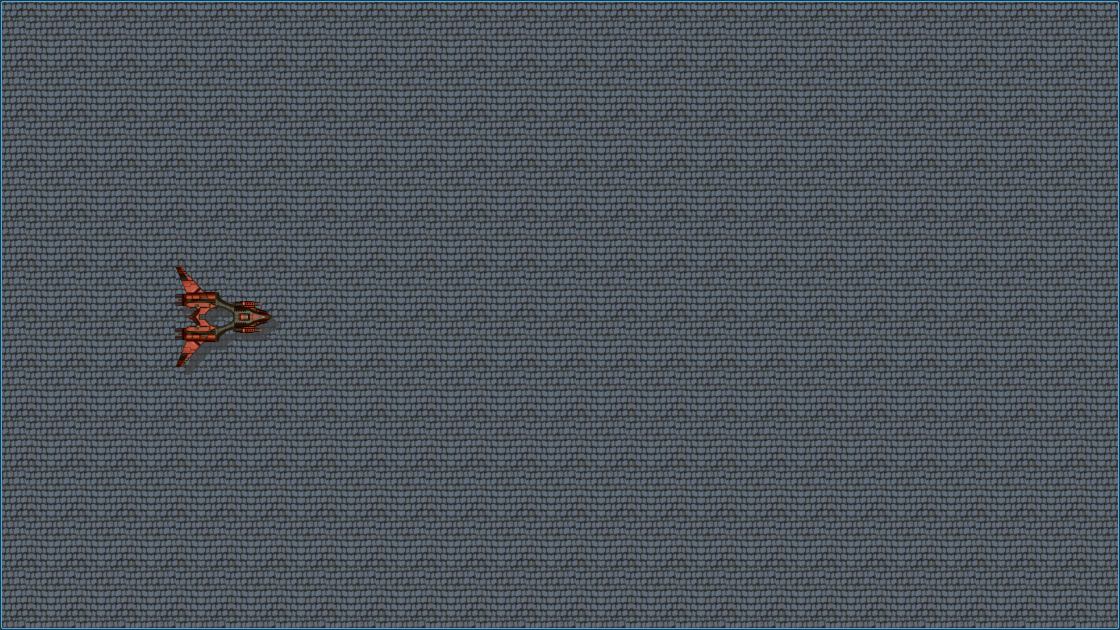
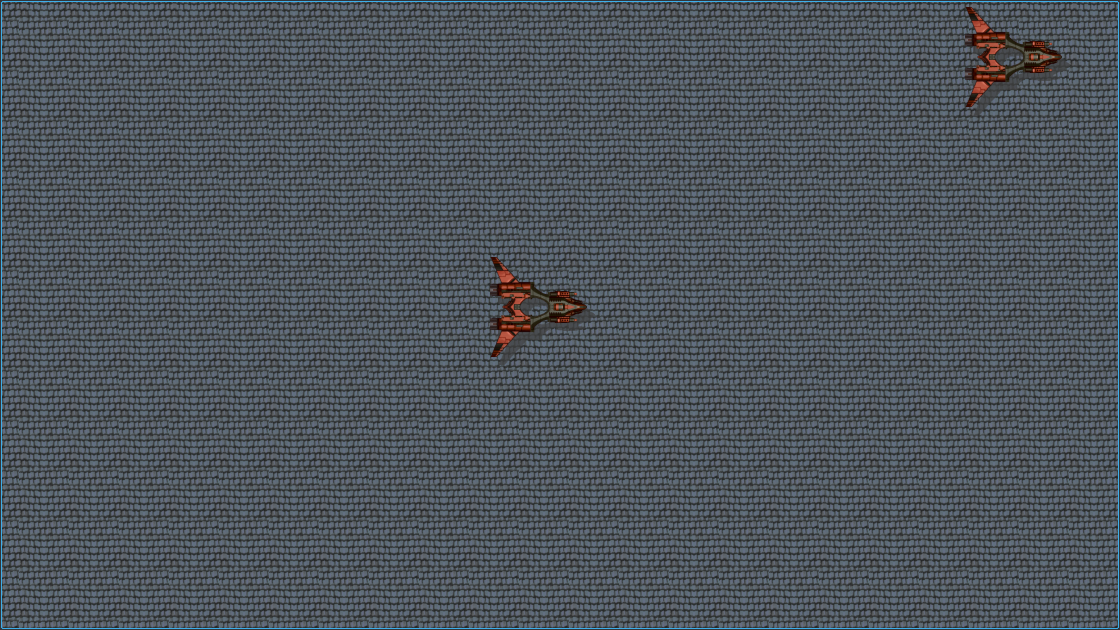
Project Update

diff --git a/Sources/Source Files/Game Objects/MyShip.cpp b/Sources/Source Files/Game Objects/MyShip.cpp
@@ -4,11 +4,12 @@
 
 #include <Sources/Headers/Game Objects/MyShip.h>
 
-MyShip::MyShip(const QPixmap &pixmap) :
+MyShip::MyShip(const QPixmap &pixmap, QString *name) :
 		QGraphicsPixmapItem(pixmap.scaled(MyRes::shp_size, Qt::KeepAspectRatio,
 		                                  Qt::SmoothTransformation)), QObject() {
 	setGraphicsEffect(new QGraphicsDropShadowEffect());
 	setPos(MyRes::x_offset, MyRes::y_offset);
+	MyShip::name = name;
 
 	vlc = new QPointF(0, 0);
 
@@ -106,15 +107,45 @@ void MyShip::updt_vlc(QSet<int> *prsd_kys) {
 	vlc->setY(0);
 	vlc->setX(0);
 
-	if (prsd_kys->find(Qt::Key_Up) != prsd_kys->end())
+	if (prsd_kys->find(Qt::Key_Up) != prsd_kys->end() && name->compare("1") == 0)
 		vlc->setY(vlc->y() - MyRes::shp_mvmnt);
-	if (prsd_kys->find(Qt::Key_Down) != prsd_kys->end())
+	if (prsd_kys->find(Qt::Key_Down) != prsd_kys->end() && name->compare("1") == 0)
 		vlc->setY(vlc->y() + MyRes::shp_mvmnt);
-	if (prsd_kys->find(Qt::Key_Left) != prsd_kys->end())
+	if (prsd_kys->find(Qt::Key_Left) != prsd_kys->end() && name->compare("1") == 0)
 		vlc->setX(vlc->x() - MyRes::shp_mvmnt);
-	if (prsd_kys->find(Qt::Key_Right) != prsd_kys->end())
+	if (prsd_kys->find(Qt::Key_Right) != prsd_kys->end() && name->compare("1") == 0)
 		vlc->setX(vlc->x() + MyRes::shp_mvmnt);
-	if (prsd_kys->find(Qt::Key_Space) != prsd_kys->end() && lsr_tmr->elapsed() >= MyRes::shp_lsrdly) {
+	if (prsd_kys->find(Qt::Key_Space) != prsd_kys->end() && name->compare("1") == 0 &&
+	    lsr_tmr->elapsed() >= MyRes::shp_lsrdly) {
+		if (!mgc) {
+			MyBullet *lsr = new MyBullet(0);
+			lsr->setPos(pos().x() + pixmap().width(),
+			            pos().y() + (pixmap().height() / 2) - (MyRes::lsr_size.height() / 2));
+			scene()->addItem(lsr);
+			QObject::connect(lsr, SIGNAL(scrGained()), this, SLOT(scrIncrement()));
+		}
+		else {
+			for (int i = -MyRes::lsr_rtn_max; i <= MyRes::lsr_rtn_max; i += MyRes::lsr_rtn_stp) {
+				MyBullet *lsr = new MyBullet(0, i);
+				lsr->setPos(pos().x() + pixmap().width(),
+				            pos().y() + (pixmap().height() / 2) - (MyRes::lsr_size.height() / 2));
+				scene()->addItem(lsr);
+				QObject::connect(lsr, SIGNAL(scrGained()), this, SLOT(scrIncrement()));
+			}
+		}
+		lsr_tmr->restart();
+	}
+
+	if (prsd_kys->find(Qt::Key_W) != prsd_kys->end() && name->compare("1") != 0)
+		vlc->setY(vlc->y() - MyRes::shp_mvmnt);
+	if (prsd_kys->find(Qt::Key_S) != prsd_kys->end() && name->compare("1") != 0)
+		vlc->setY(vlc->y() + MyRes::shp_mvmnt);
+	if (prsd_kys->find(Qt::Key_A) != prsd_kys->end() && name->compare("1") != 0)
+		vlc->setX(vlc->x() - MyRes::shp_mvmnt);
+	if (prsd_kys->find(Qt::Key_D) != prsd_kys->end() && name->compare("1") != 0)
+		vlc->setX(vlc->x() + MyRes::shp_mvmnt);
+	if (prsd_kys->find(Qt::Key_X) != prsd_kys->end() && name->compare("1") != 0 &&
+	    lsr_tmr->elapsed() >= MyRes::shp_lsrdly) {
 		if (!mgc) {
 			MyBullet *lsr = new MyBullet(0);
 			lsr->setPos(pos().x() + pixmap().width(),

diff --git a/Sources/Source Files/Widgets/MyGame.cpp b/Sources/Source Files/Widgets/MyGame.cpp
@@ -15,7 +15,11 @@ MyGame::MyGame(QWidget *parent) :
 			QBrush(QImage(MyRes::env_adds[SettingData::env]).scaled(MyRes::tl_size, Qt::KeepAspectRatio,
 			                                                        Qt::SmoothTransformation)));
 	// Test
-	tmp = new MyShip(QPixmap(MyRes::shp_adds[SettingData::uShp]));
+	tmp = new MyShip(QPixmap(MyRes::shp_adds[SettingData::uShp]), new QString("1"));
+	gscn->addItem(tmp);
+	gscn->addItem(tmp->shpshld);
+
+	tmp = new MyShip(QPixmap(MyRes::shp_adds[SettingData::uShp]), new QString("2"));
 	gscn->addItem(tmp);
 	gscn->addItem(tmp->shpshld);
 
@@ -64,10 +68,6 @@ void MyGame::timerEvent(QTimerEvent *event) {
 	setSceneRect(sceneRect().x() + MyRes::vw_mvmnt, 0, viewport()->frameGeometry().width(),
 	             viewport()->frameGeometry().height());
 	QList<QGraphicsItem *> items = gscn->items();
-
-//	QTextStream X(stderr);
-//	X << items.size() << endl;
-
 			foreach(QGraphicsItem *i, items) {
 			if (dynamic_cast<MyAlien *>(i)) {
 				dynamic_cast<MyAlien *>(i)->updt();

diff --git a/Sources/Headers/Game Objects/MyShip.h b/Sources/Headers/Game Objects/MyShip.h
@@ -32,7 +32,7 @@ Q_OBJECT
 	friend class MyGame;
 
 public:
-	MyShip(const QPixmap &pixmap);
+	MyShip(const QPixmap &, QString *);
 
 	~MyShip();
 
